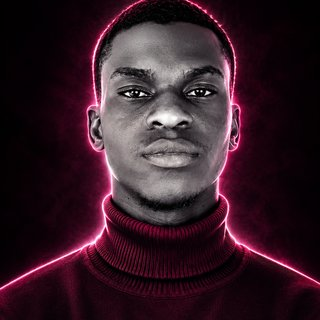
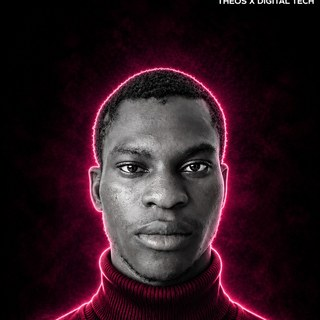
Fixed Team Members

diff --git a/index.html b/index.html
@@ -722,6 +722,17 @@
   .footer-brand{display:inline-flex;align-items:center;gap:9px;text-align:left;}
   .footer-mark{width:18px;height:18px;display:block;}
   .footer-reg{display:block;color:#7E8B97;font-size:0.72rem;letter-spacing:0.03em;margin-top:2px;}
+  .footer-socials{display:inline-flex;gap:10px;}
+  .footer-social{
+    width:34px;height:34px;
+    border-radius:50%;
+    border:1px solid rgba(255,255,255,0.18);
+    color:#A9B6C2;
+    display:inline-flex;align-items:center;justify-content:center;
+    transition:color .2s, border-color .2s, background .2s;
+  }
+  .footer-social:hover{color:#fff;border-color:var(--signal);background:rgba(232,89,12,0.15);}
+  .footer-social svg{width:15px;height:15px;}
 
   /* reveal */
   .reveal{opacity:0;transform:translateY(14px);transition:opacity .5s, transform .5s;}
@@ -1028,6 +1039,18 @@
 <footer>
   <div class="wrap">
     <span class="footer-brand"><img src="logo.svg" alt="" class="footer-mark"><span>© 2026 THEOS X DIGITAL TECH. All rights reserved.<br><span class="footer-reg mono">Registered Business Name (Nigeria) · CAC No. BN 9734512</span></span></span>
+    <!-- TODO: replace these dummy social links with the real THEOS X DIGITAL TECH pages -->
+    <span class="footer-socials">
+      <a href="https://facebook.com/theosxdigital" target="_blank" rel="noopener" class="footer-social" aria-label="Facebook">
+        <svg viewBox="0 0 24 24" fill="currentColor" aria-hidden="true"><path d="M24 12.073c0-6.627-5.373-12-12-12s-12 5.373-12 12c0 5.99 4.388 10.954 10.125 11.854v-8.385H7.078v-3.47h3.047V9.43c0-3.007 1.792-4.669 4.533-4.669 1.312 0 2.686.235 2.686.235v2.953H15.83c-1.491 0-1.956.925-1.956 1.874v2.25h3.328l-.532 3.47h-2.796v8.385C19.612 23.027 24 18.062 24 12.073z"/></svg>
+      </a>
+      <a href="https://x.com/theosxdigital" target="_blank" rel="noopener" class="footer-social" aria-label="X (Twitter)">
+        <svg viewBox="0 0 24 24" fill="currentColor" aria-hidden="true"><path d="M18.901 1.153h3.68l-8.04 9.19L24 22.846h-7.406l-5.8-7.584-6.638 7.584H.474l8.6-9.83L0 1.154h7.594l5.243 6.932ZM17.61 20.644h2.039L6.486 3.24H4.298Z"/></svg>
+      </a>
+      <a href="https://linkedin.com/company/theosxdigital" target="_blank" rel="noopener" class="footer-social" aria-label="LinkedIn">
+        <svg viewBox="0 0 24 24" fill="currentColor" aria-hidden="true"><path d="M20.447 20.452h-3.554v-5.569c0-1.328-.027-3.037-1.852-3.037-1.853 0-2.136 1.445-2.136 2.939v5.667H9.351V9h3.414v1.561h.046c.477-.9 1.637-1.85 3.37-1.85 3.601 0 4.267 2.37 4.267 5.455v6.286zM5.337 7.433c-1.144 0-2.063-.926-2.063-2.065 0-1.138.92-2.063 2.063-2.063 1.14 0 2.064.925 2.064 2.063 0 1.139-.925 2.065-2.064 2.065zm1.782 13.019H3.555V9h3.564v11.452zM22.225 0H1.771C.792 0 0 .774 0 1.729v20.542C0 23.227.792 24 1.771 24h20.451C23.2 24 24 23.227 24 22.271V1.729C24 .774 23.2 0 22.222 0h.003z"/></svg>
+      </a>
+    </span>
     <span><a href="#home">Back to top ↑</a></span>
   </div>
 </footer>
@@ -1122,9 +1145,8 @@
       img: 'team/ishaku-sule.jpg',
       bio: 'Meet <strong>Ishaku Ibrahim Sule</strong>, Chairman & Co-Founder of <strong>THEOS X Digital Tech</strong>. With expertise in front-end development, data analysis, and visual communication through Canva, he combines technical proficiency with creative thinking. As Chairman, he provides strategic leadership while contributing to the company\'s commitment to building innovative digital solutions.',
       socials: {
-        facebook: 'https://facebook.com/theosxdigital',
-        twitter: 'https://x.com/theosxdigital',
-        instagram: 'https://instagram.com/theosxdigital',
+        facebook: 'https://www.facebook.com/ComrUnpopular',
+        twitter: 'https://x.com/IISuleWazir_snr?s=09',
         github: 'https://github.com/Iisule',
         linkedin: 'https://www.linkedin.com/in/ishaku-ibrahim-sule-6a0ab7425',
       },
@@ -1157,8 +1179,7 @@
       bio: 'Meet <strong>Lionel Aember Nyam</strong>, the Technology Consultant at <strong>THEOS X Digital Tech</strong>. Lionel works closely with clients to understand their business goals and recommend innovative technology solutions that drive growth and efficiency. With a strategic approach to digital transformation and IT consulting, he helps organizations leverage technology to solve complex challenges and unlock new opportunities.',
       socials: {
         facebook: 'https://www.facebook.com/profile.php?id=100081088909501',
-        twitter: 'https://x.com/theosxdigital',
-        instagram: 'https://instagram.com/theosxdigital',
+        twitter: 'https://x.com/lionel_nyam',
       },
     },
   ];
